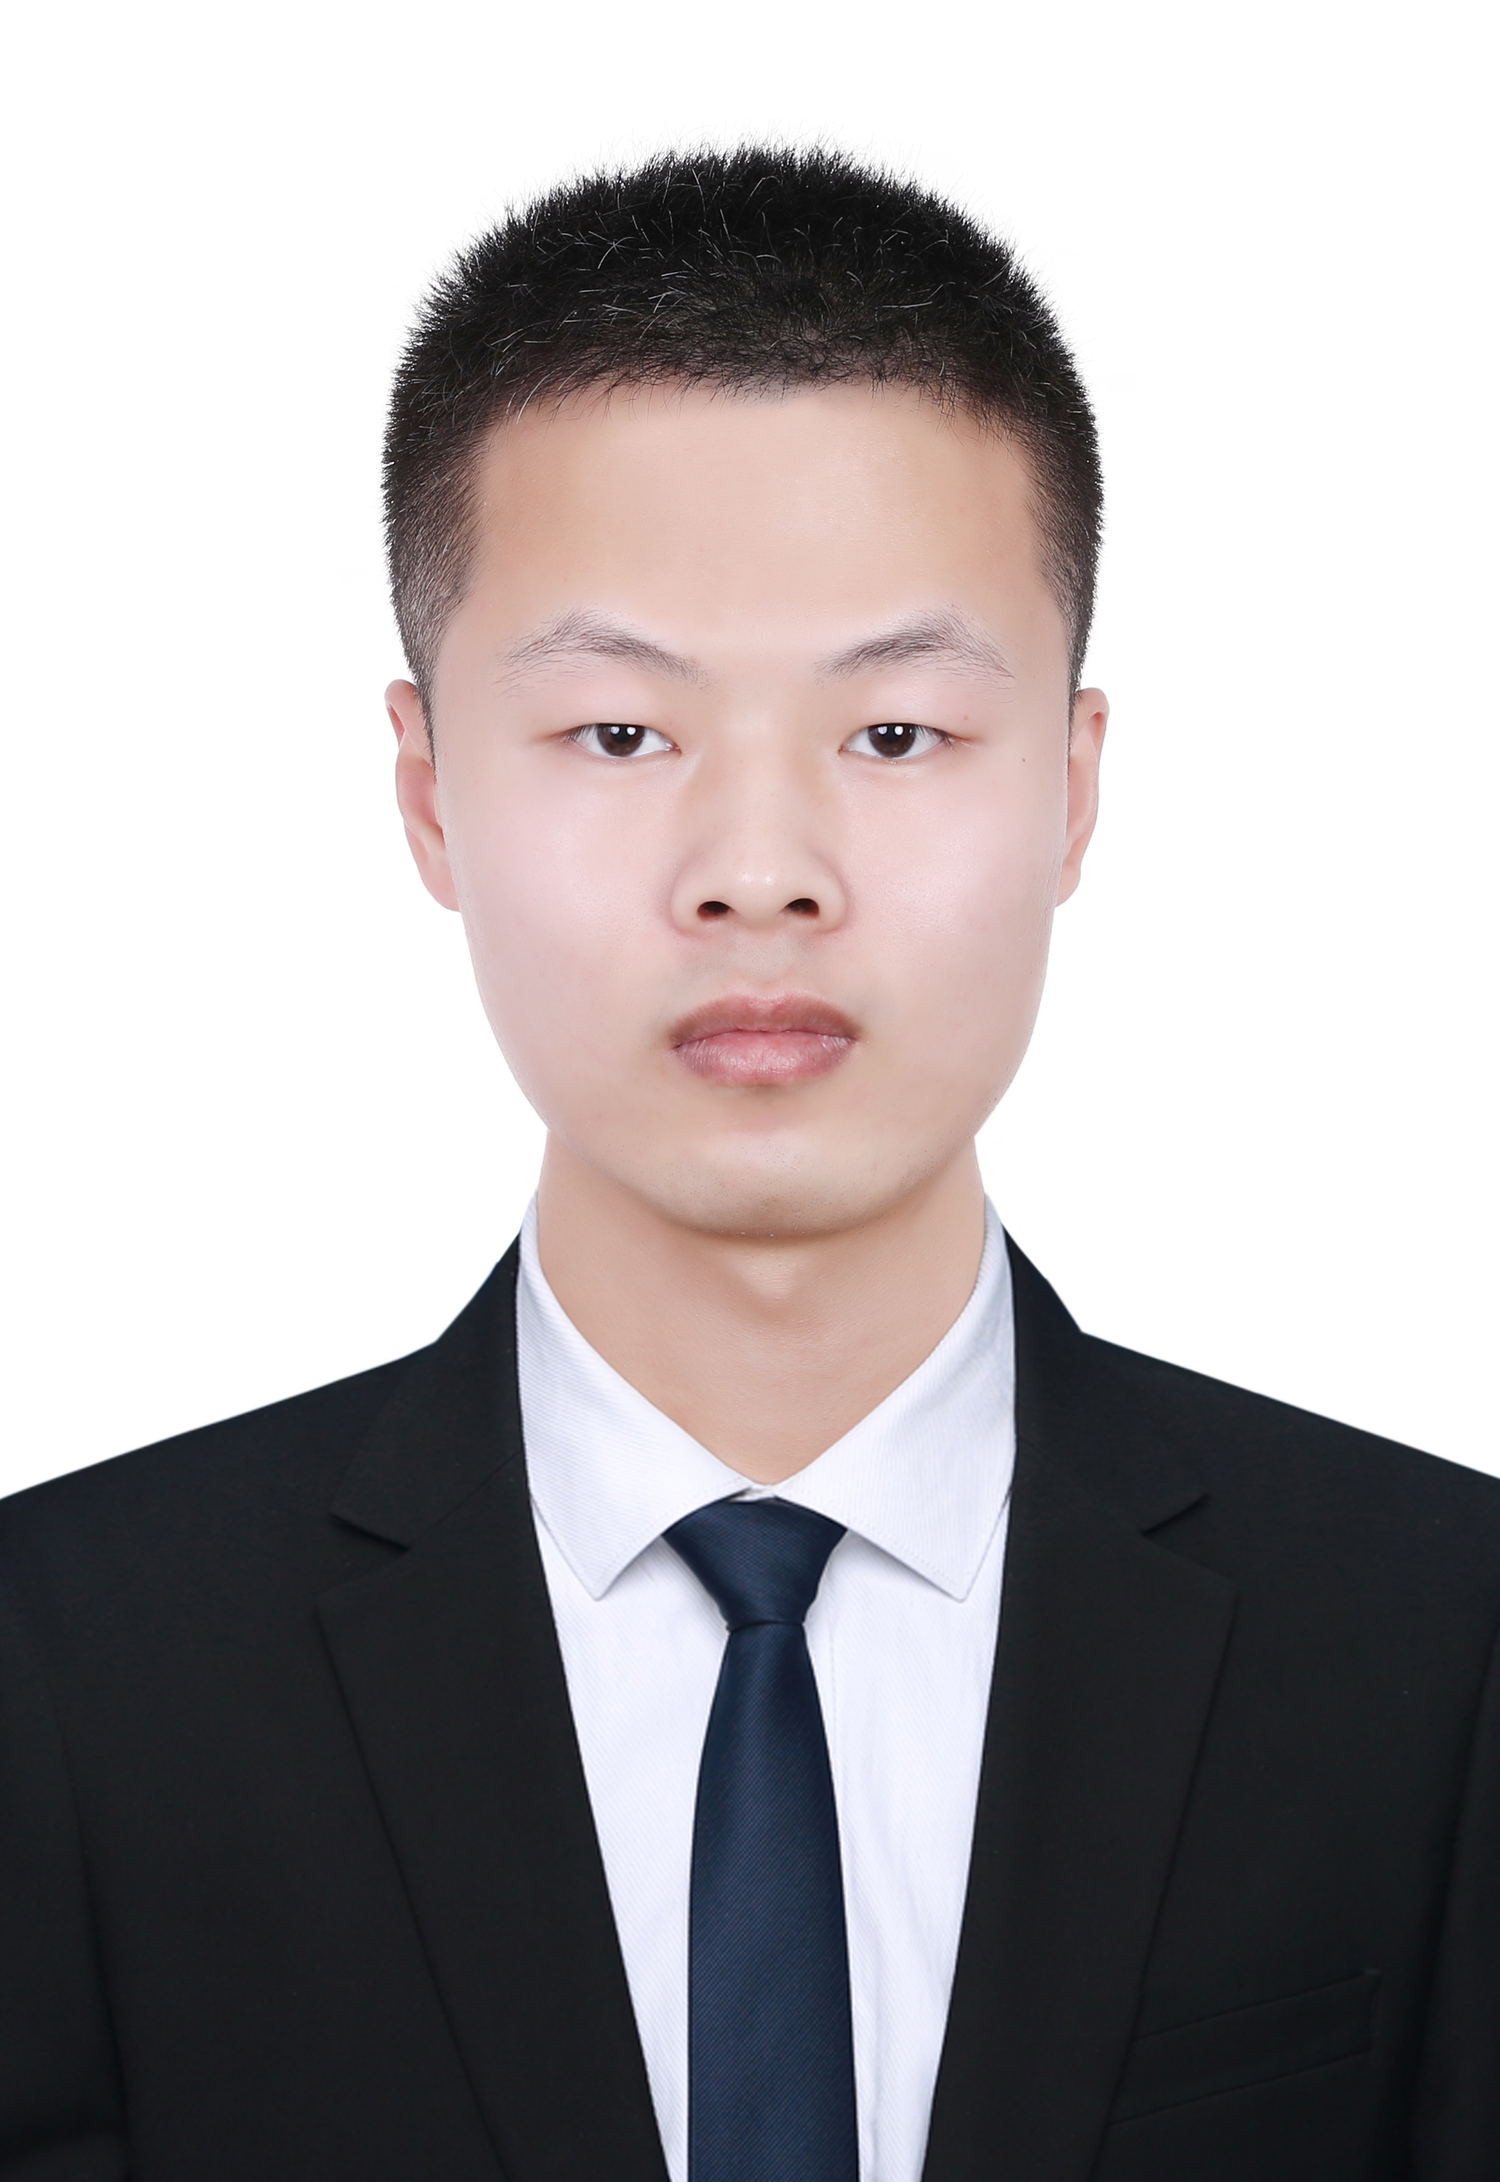
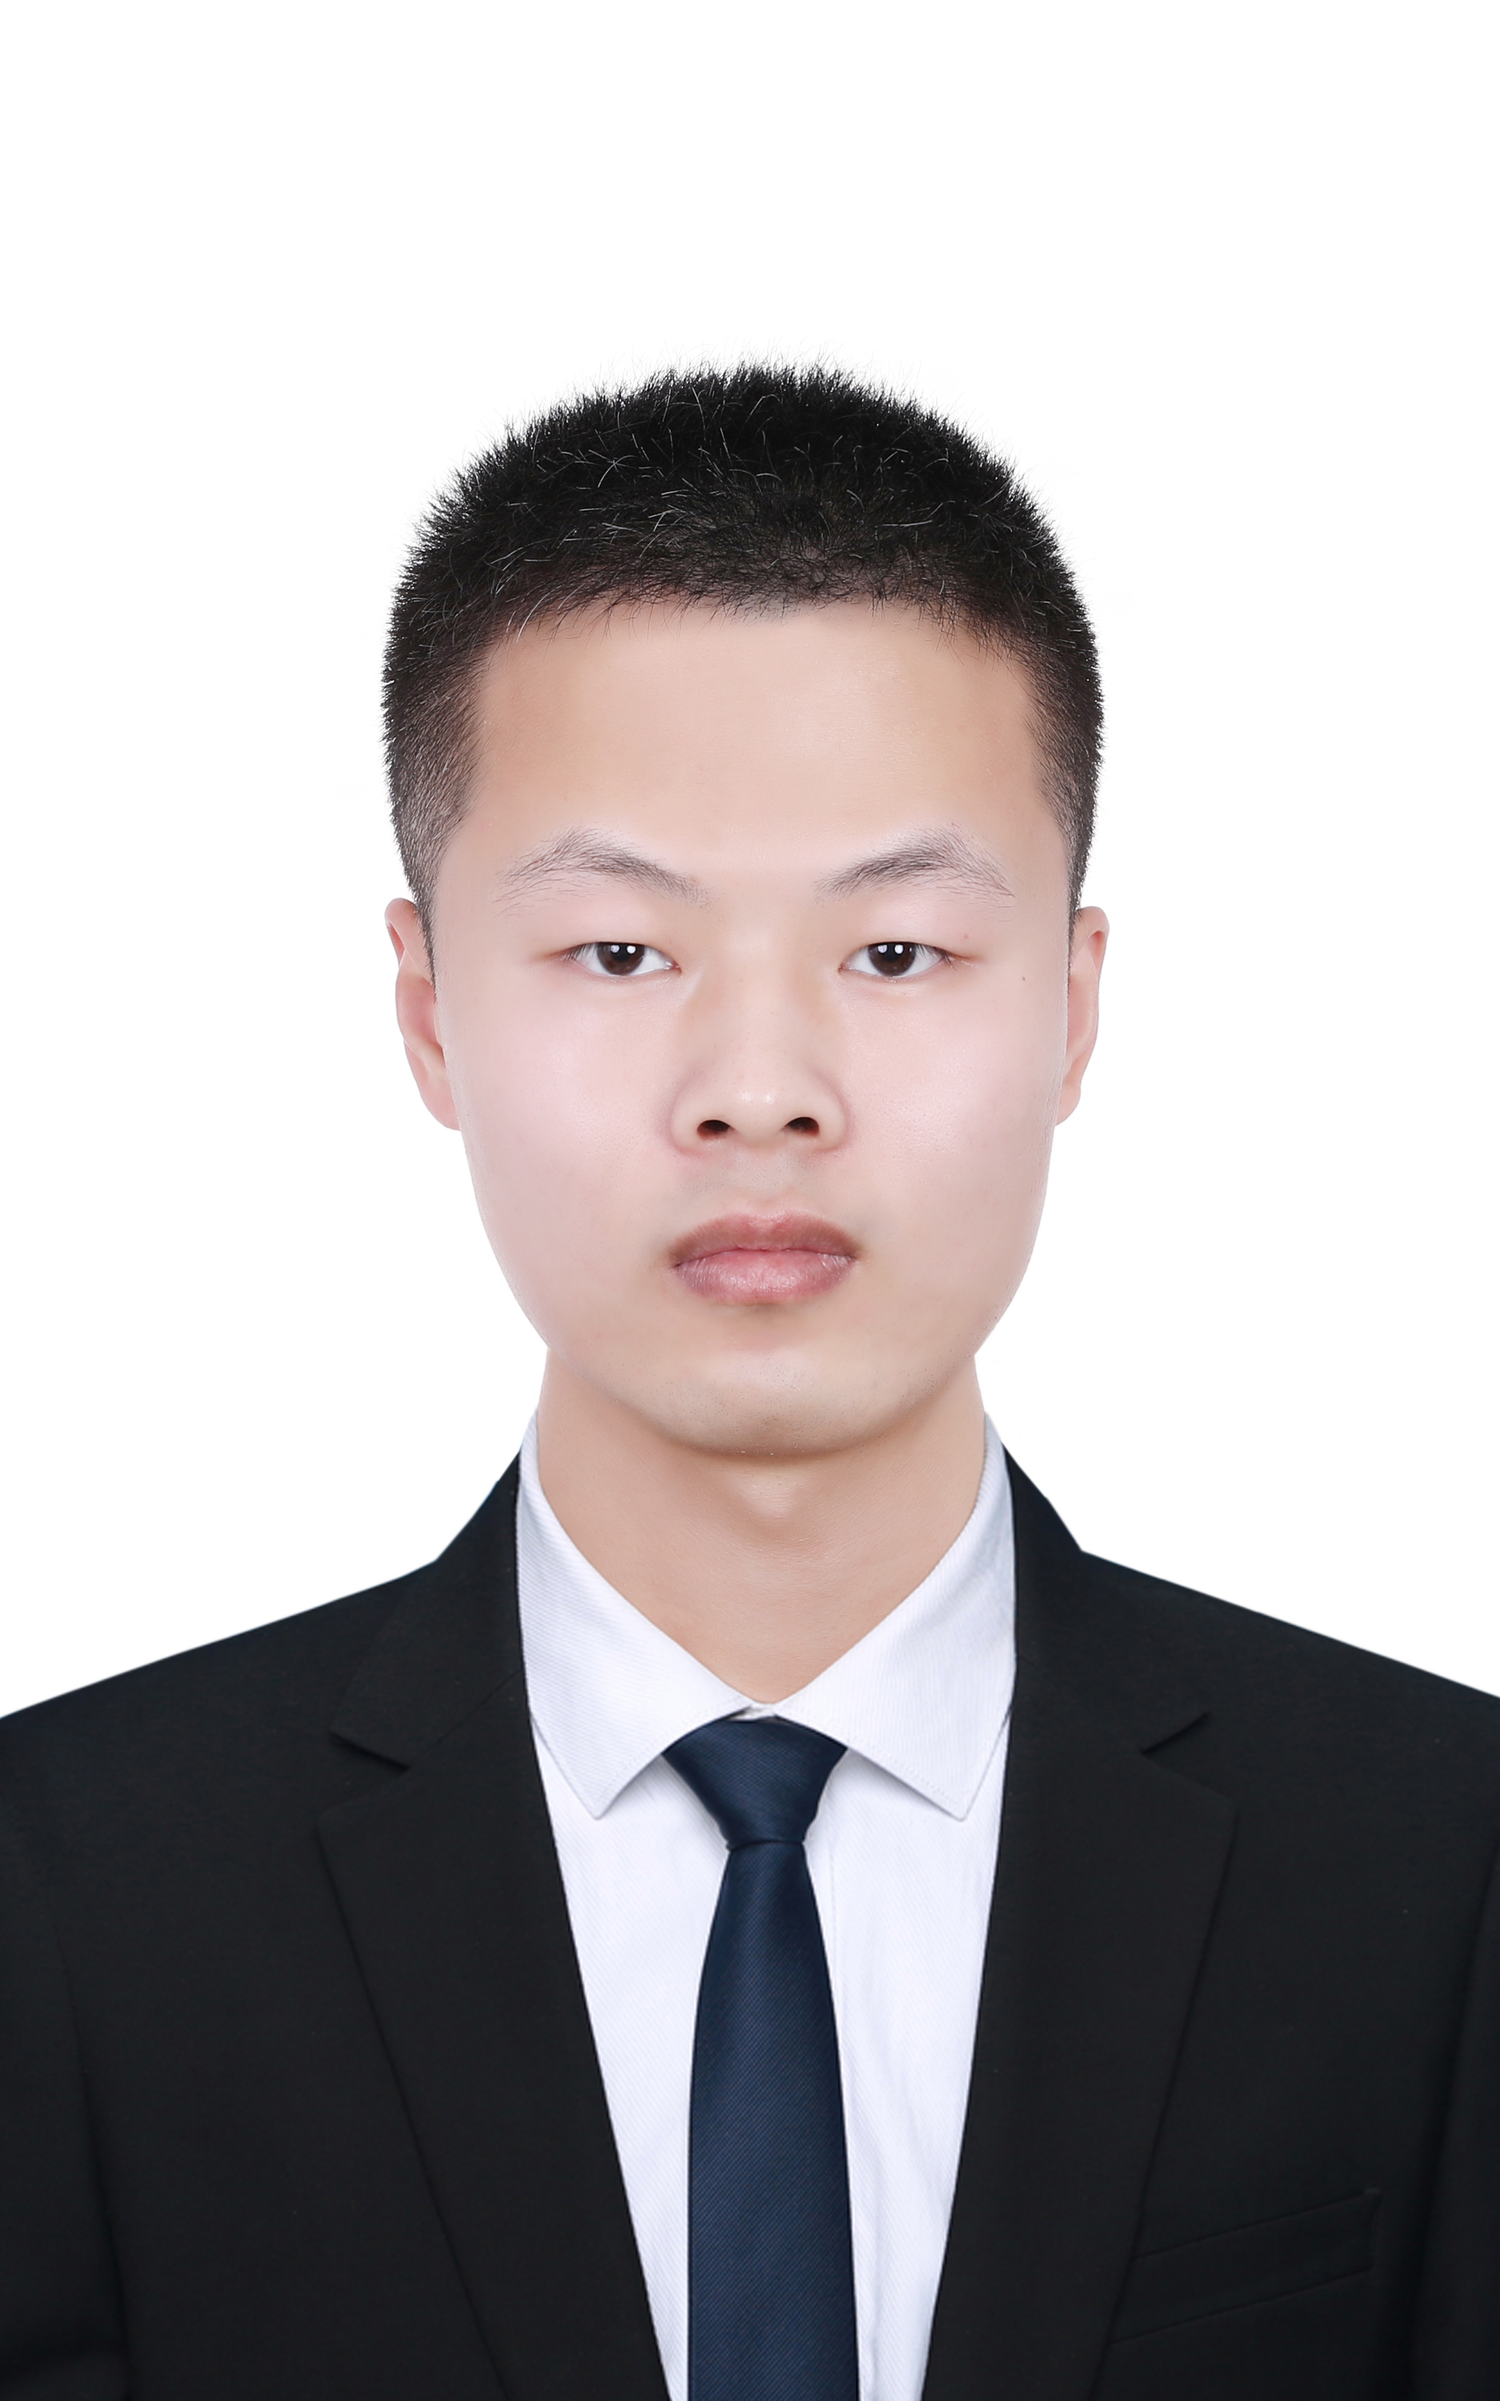
Update Author “admin/_index”

diff --git a/content/authors/admin/_index.md b/content/authors/admin/_index.md
@@ -1,7 +1,7 @@
 ---
 title: Peng Wei
 role: Junior Back End Engineer
-avatar_filename: avatar2.jpg
+avatar_filename: avatar.jpg
 bio: Although the road is far away, the line will come soon. God rewards
   hard   work, accumulates wealth.
 interests:
